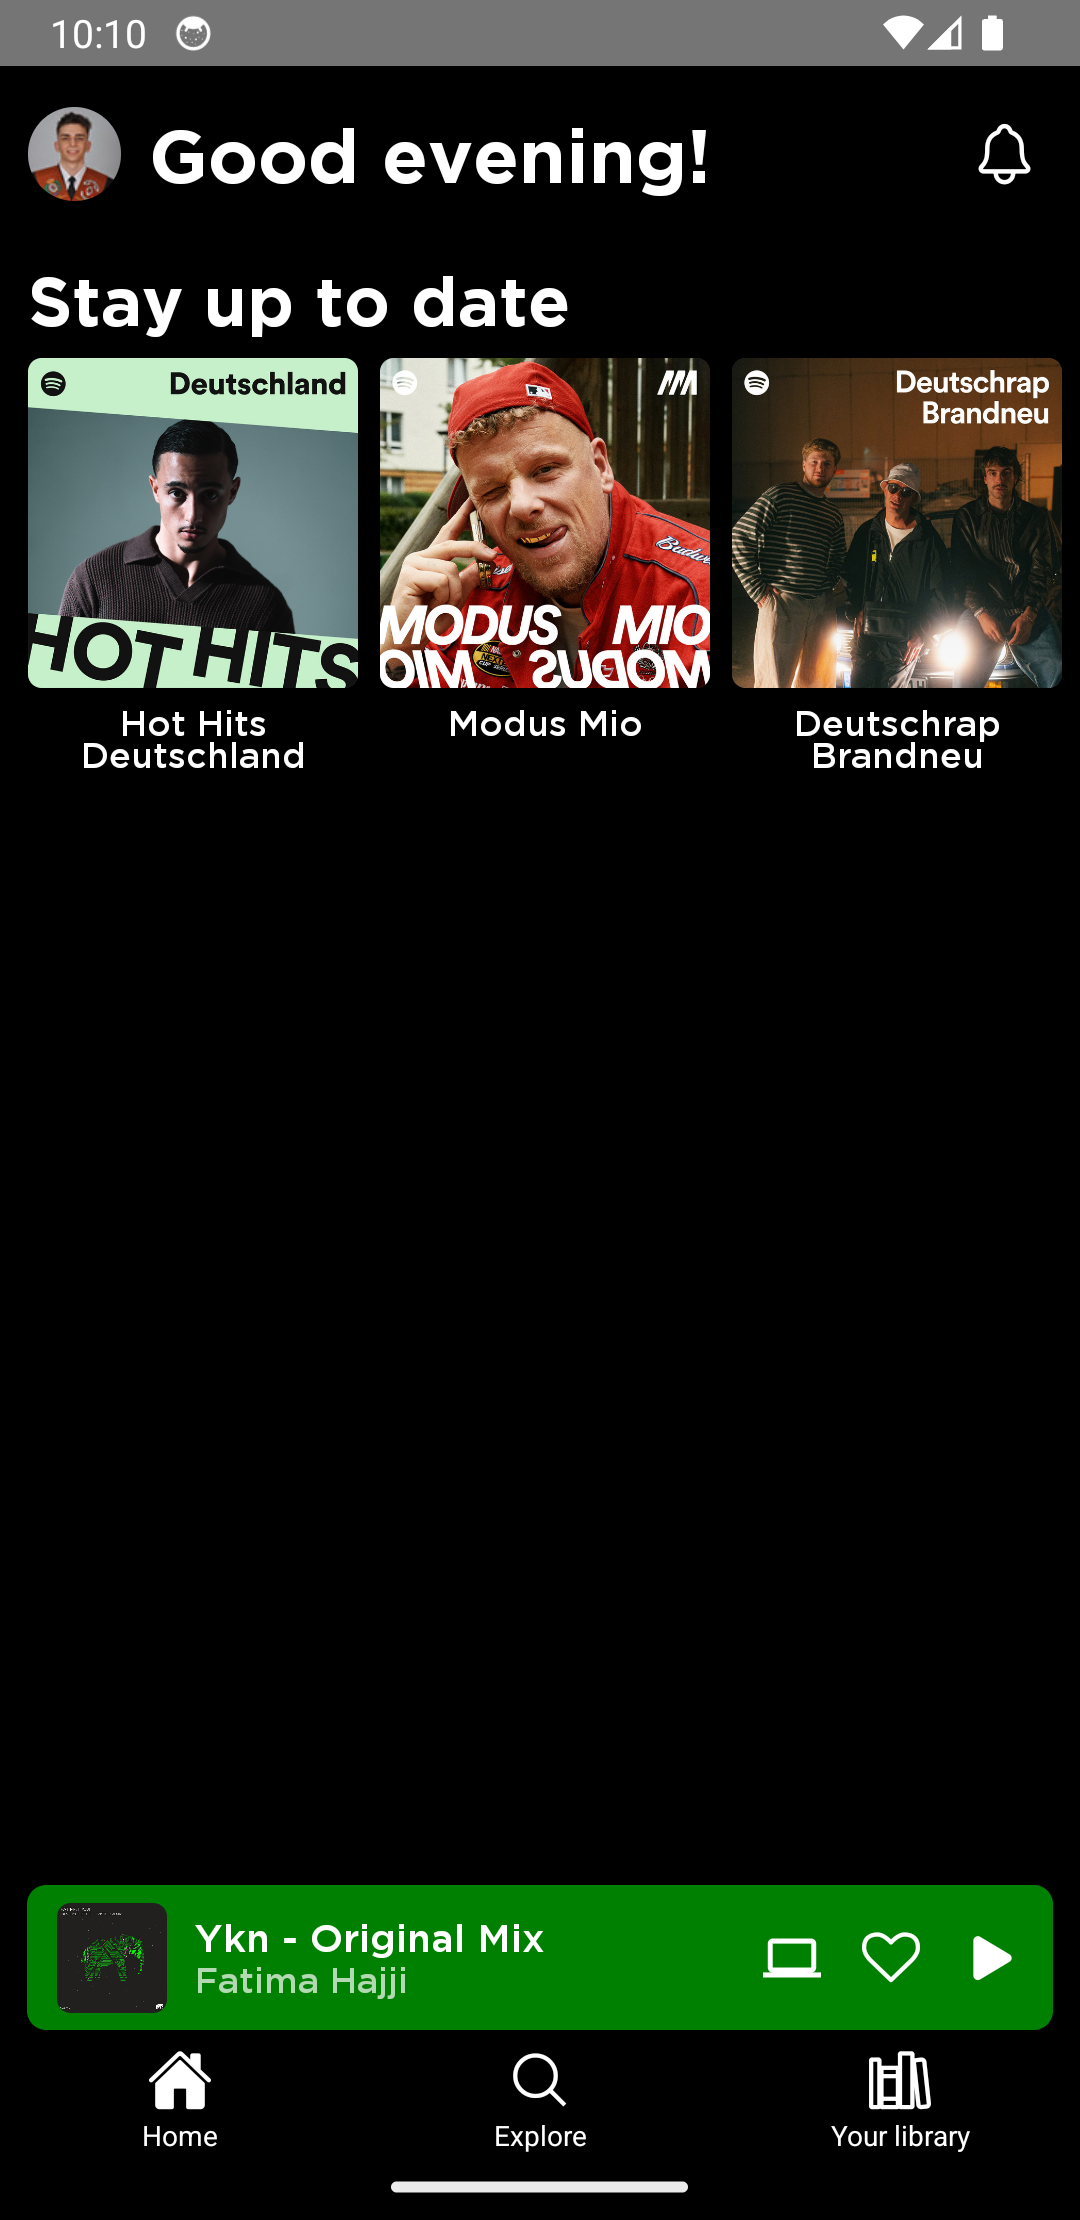
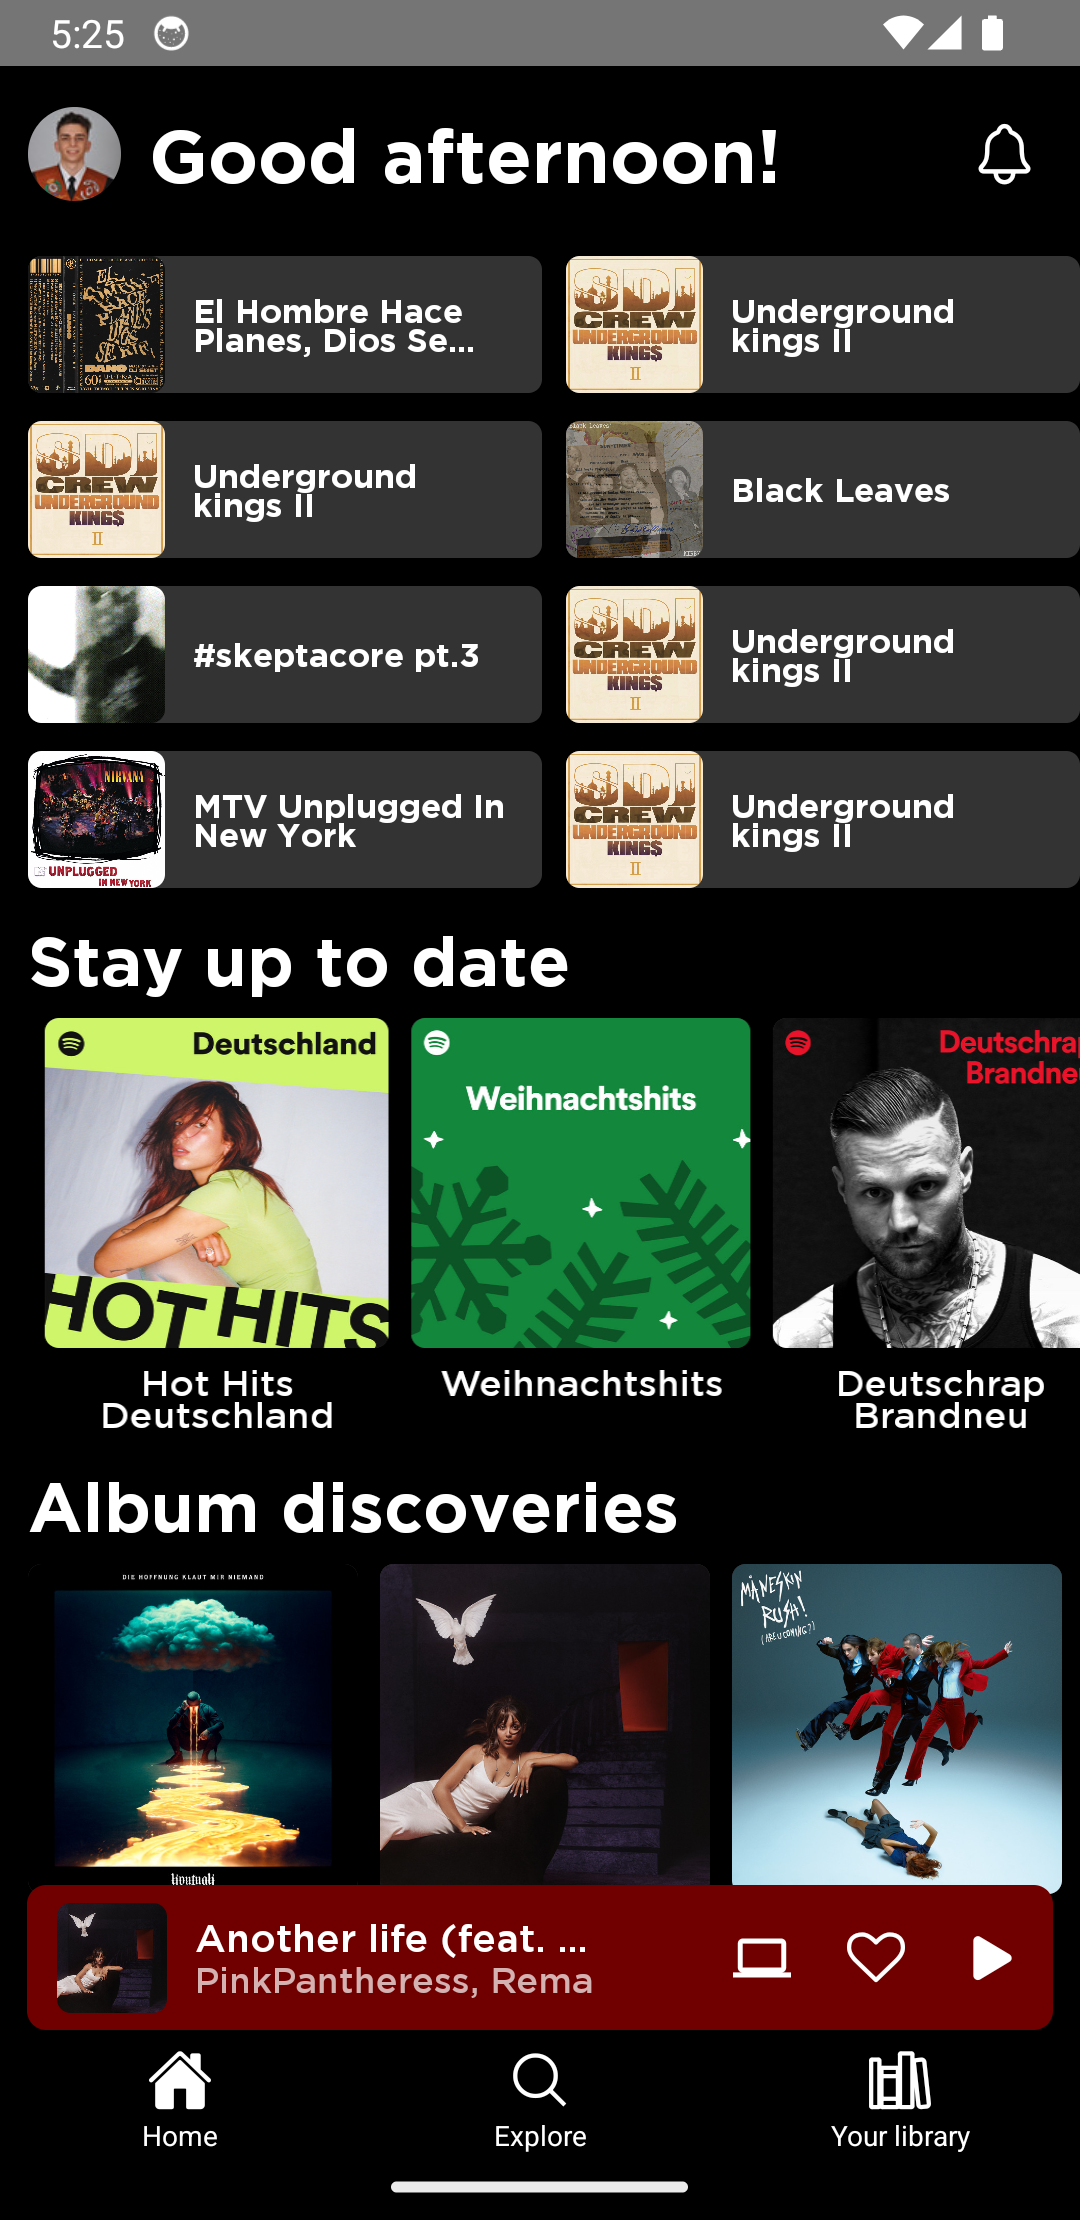
Assets updates

diff --git a/src/components/SongPlayer/index.js b/src/components/SongPlayer/index.js
@@ -16,7 +16,7 @@ const SongPlayer = ({ visible, state, item }) => {
   return (
     <>
       {visible &&
-        <TouchableOpacity style={[styles.playerView, { backgroundColor: 'green' }]} onPress={() => openModal()} >
+        <TouchableOpacity style={[styles.playerView, { backgroundColor: '#700000' }]} onPress={() => openModal()} >
           {<Image style={styles.image} source={{ uri: item.artwork }} />}
           <View style={styles.titleView}>
             <Text style={styles.titleText}>{shortenText(item.title, 20)}</Text>

diff --git a/README.md b/README.md
@@ -15,9 +15,9 @@ This project is a clone of the popular music streaming application, Spotify. It 
 
 <br>
 
-| LoginScreen | HomeScreen | SearchScreen | LibraryPlaylist |
+| LoginScreen | HomeScreen | ExploreScreen | LibraryScreen |
 |:---------------:|:---------------:|:---------------:|:---------------:|
-| ![LoginScreen](src/assets/screenshots/LoginScreen.PNG) | ![HomeScreen](src/assets/screenshots/HomeScreen.png) | ![SearchScreen](src/assets/screenshots/SearchScreen.png) | ![YourLibraryScreen](src/assets/screenshots/YourLibraryScreen.png)
+| ![LoginScreen](src/assets/screenshots/LoginScreen.PNG) | ![HomeScreen](src/assets/screenshots/HomeScreen.png) | ![SearchScreen](src/assets/screenshots/ExploreScreen.png) | ![YourLibraryScreen](src/assets/screenshots/YourLibraryScreen.png)
 | ArtistScreen | AlbumScreen | PlaylistScreen | PodcastScreen |  
 ![ArtistScreen](src/assets/screenshots/ArtistsScreen.PNG) | ![AlbumScreen](src/assets/screenshots/AlbumScreen.png) | ![PlaylistScreen](src/assets/screenshots/PlaylistScreen.png) | ![PodcastScreen](src/assets/screenshots/PodcastScreen.png)
 
